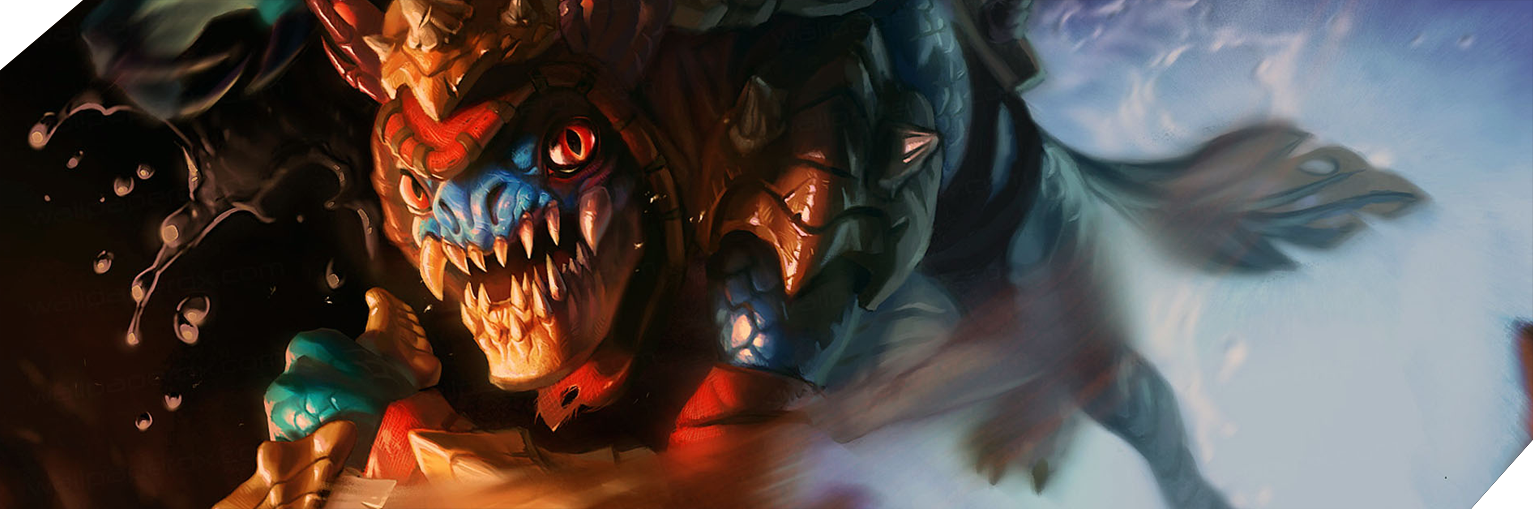
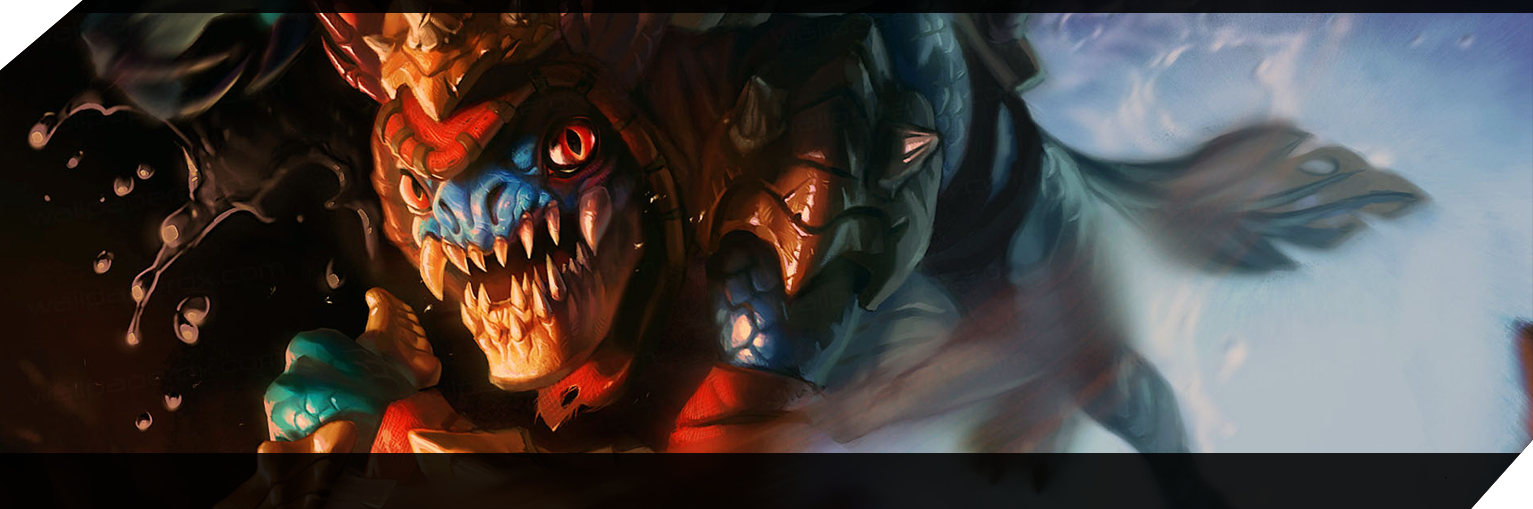
New Images Carousel

Changed region(s): [[0.0, 0.8841, 1.0, 1.0], [0.0613, 0.0, 1.0, 0.0295]]

diff --git a/src/components/home/Carrosel.vue b/src/components/home/Carrosel.vue
@@ -11,22 +11,16 @@
     >
       <b-carousel-slide>
         <template v-slot:img>
-          <div class="border-top"></div>
-          <div class="border-bottom"></div>
           <img src="@/assets/p.png" class="img-carousel" />
         </template>
       </b-carousel-slide>
       <b-carousel-slide>
         <template v-slot:img>
-          <div class="border-top"></div>
-          <div class="border-bottom"></div>
           <img src="@/assets/bg_carrousel_02.png" class="img-carousel" />
         </template>
       </b-carousel-slide>
       <b-carousel-slide>
         <template v-slot:img>
-          <div class="border-top"></div>
-          <div class="border-bottom"></div>
           <img src="@/assets/bg_carrousel_03.png" class="img-carousel" />
         </template>
       </b-carousel-slide>
@@ -64,27 +58,12 @@ export default {
   width: 100%;
   height: 370px;
 }
-.border-top {
-    height: 10px;
-    width: 100%;
-    position: absolute;
-    background-color: #10140d;
-    opacity: 0.8;
-}
-.border-bottom {
-  height: 40px;
-  width: 100%;
-  position: absolute;
-  background-color: #10140d;
-  opacity: 0.8;
-  margin-top: 330px;
-}
 .carousel-indicators .active {
   background-color: #15ff00;
   margin-bottom: -7px;
 }
 .carousel-indicators li {
-  background-color: #061b0470;
+  background-color: #163e00;
   margin-bottom: -7px;
 }
 </style>
